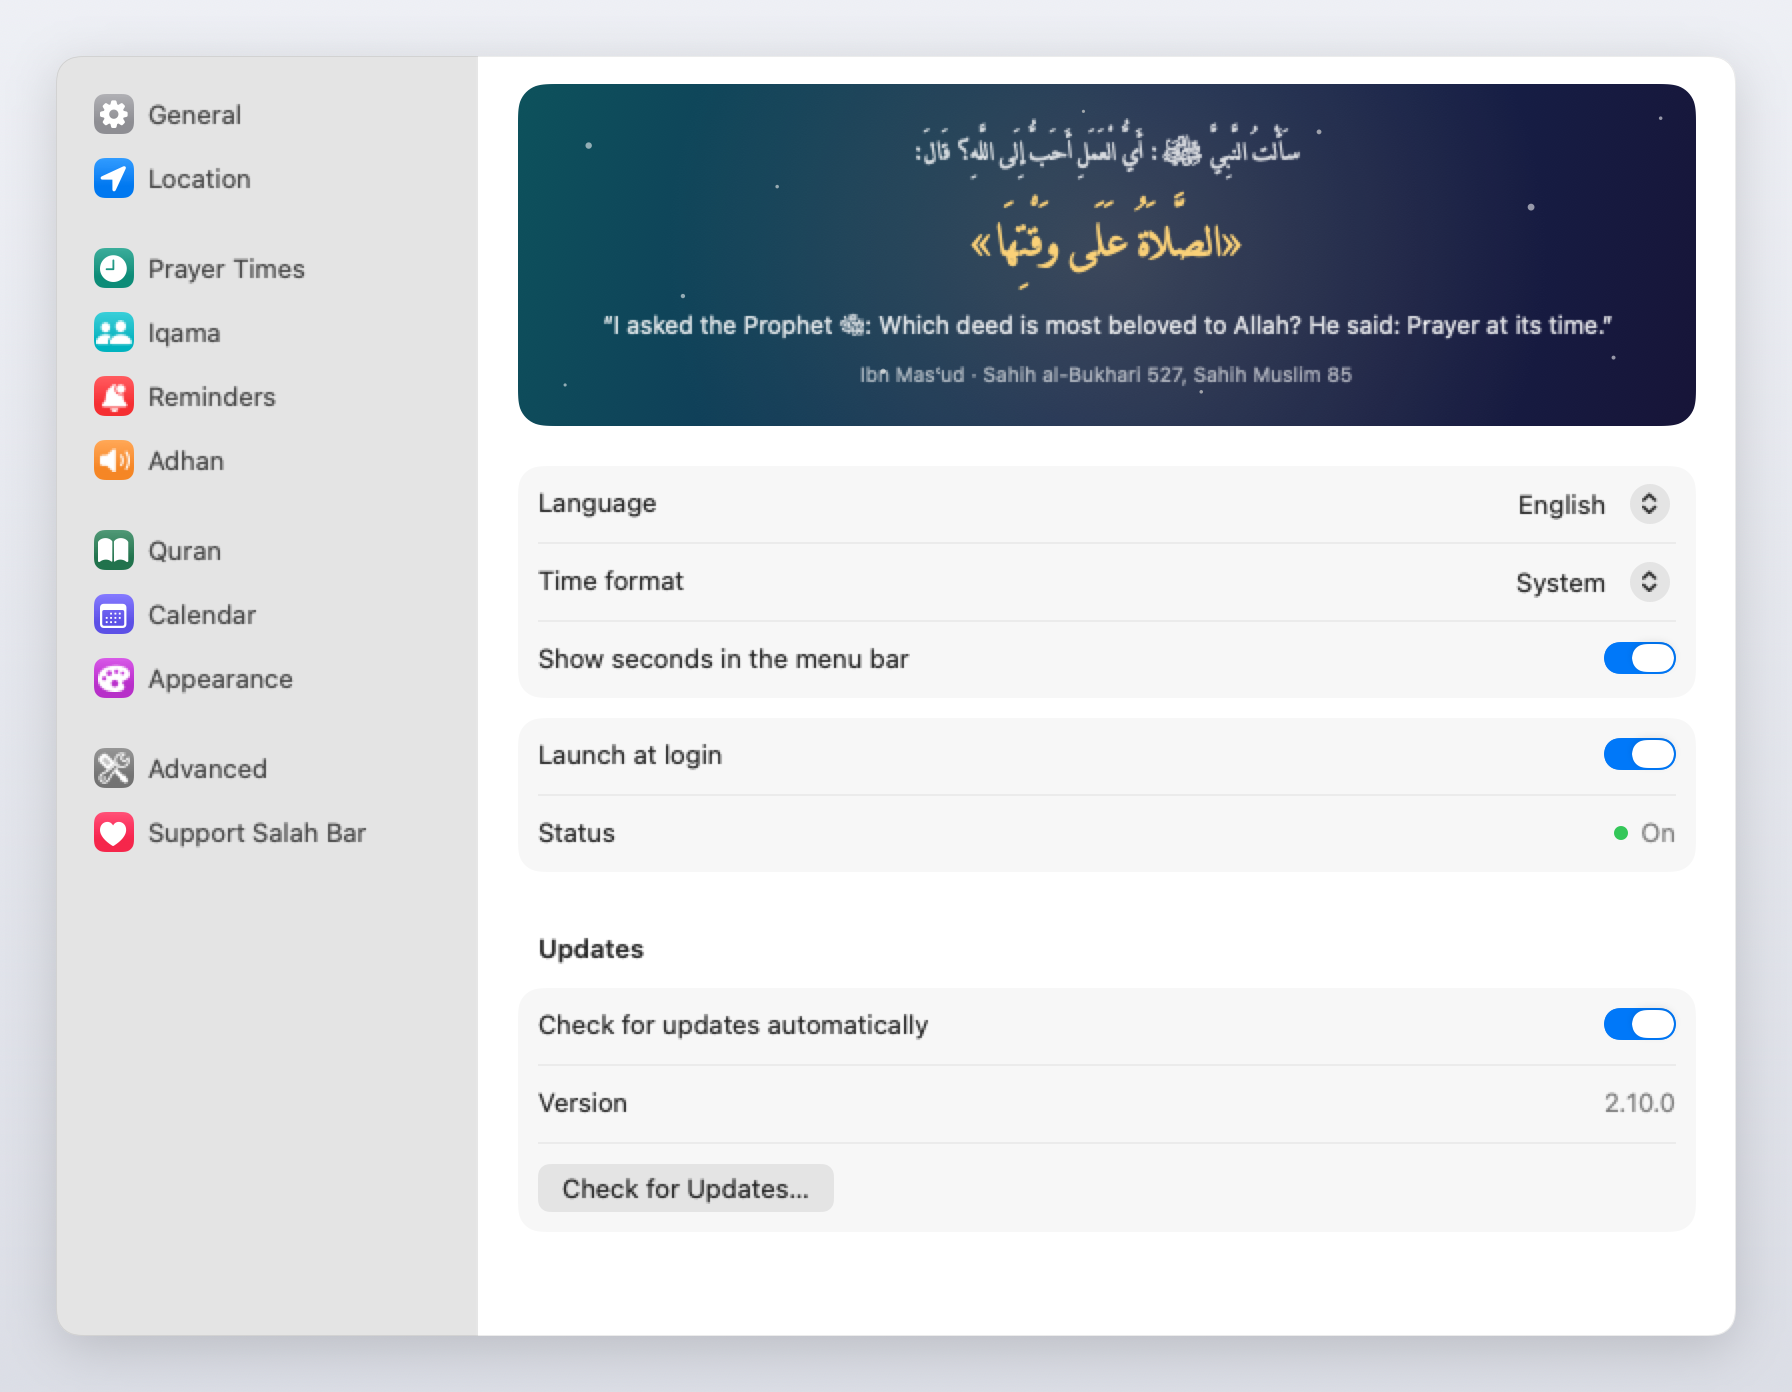
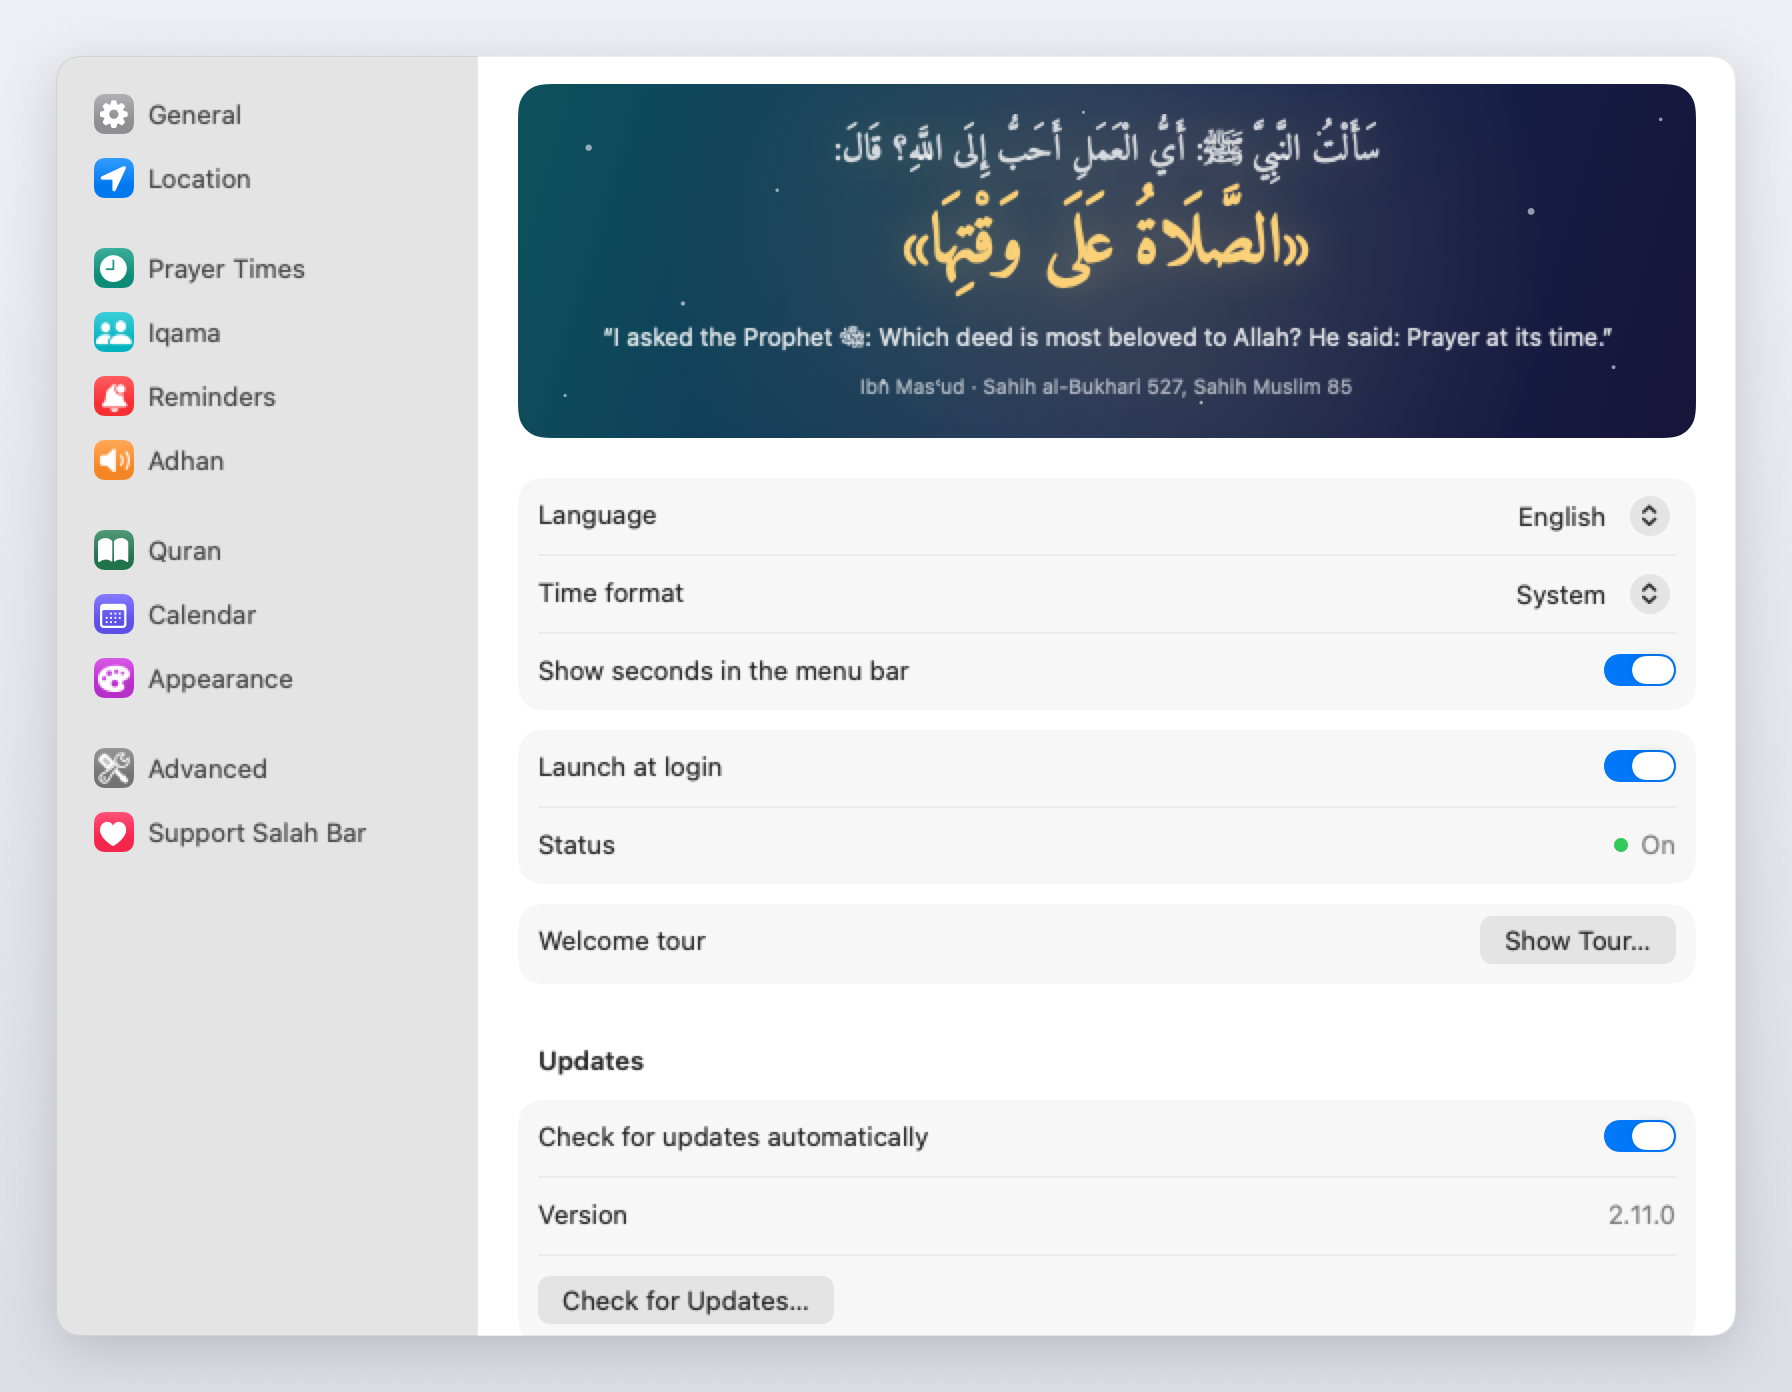
Release 2.11.0

diff --git a/README.md b/README.md
@@ -288,19 +288,31 @@ Click the countdown in the menu bar to open the panel. It shows:
   surah, and a progress bar you can click or drag to jump within the surah
 - **Quran…**, **Settings…** and **Quit Salah Bar**
 
-### Welcome
+### The welcome tour
 
-On first launch, Salah Bar greets you with the hadith it's built around, and
-asks for Location (to calculate your prayer times) and Notifications:
+On first launch, a short tour sets Salah Bar up with you, one step at a time:
+
+1. **Welcome**: the hadith Salah Bar is built around, and your language (English, Türkçe or العربية).
+2. **Location**: use your location, or choose a city instead.
+3. **Notifications and the adhan**: allow reminders, and listen to the adhan.
+4. **The menu bar**: where to find the countdown and what the panel shows.
+5. **What's inside**: the Quran, Hifz, iqama, the prayer log, widgets and more.
+6. **Done**: open Salah Bar when you log in, if you like.
+
+Each step can be skipped, and **Settings → General → Welcome tour** shows it again.
 
 > I asked the Prophet ﷺ: *"Which deed is most beloved to Allah?"* He said:
 > **"Prayer at its time."** (Ibn Masʿud; Sahih al-Bukhari 527, Sahih Muslim 85)
 
-| Welcome | Settings |
+| Welcome | The menu bar |
 |---|---|
-| ![The welcome window](assets/screenshots/welcome-en.png) | ![Settings, General](assets/screenshots/settings-general-en.png) |
+| ![The welcome tour](assets/screenshots/welcome-en.png) | ![The menu bar step](assets/screenshots/tour-menubar-en.png) |
+| **Location** | **What's inside** |
+| ![The location step](assets/screenshots/tour-location-en.png) | ![The features step](assets/screenshots/tour-features-en.png) |
 
 ### Settings
+
+![Settings, General](assets/screenshots/settings-general-en.png)
 
 Settings is laid out like System Settings: pages in a sidebar, each with its
 own icon, and the hadith at the top of **General**.

diff --git a/THIRD_PARTY_NOTICES.md b/THIRD_PARTY_NOTICES.md
@@ -32,6 +32,14 @@ the Hifz view ("Text: Tanzil.net"), and Tanzil's copyright notice is kept in
 the bundled file. Ayah timings for Hifz mode come from mp3quran.net's API,
 and ayah-by-ayah audio from EveryAyah.com (see below).
 
+## The Amiri font
+
+The hadith on the welcome tour and in Settings is set in
+[Amiri](https://github.com/aliftype/amiri) 1.000 by Khaled Hosny, bundled
+unmodified (`Amiri-Bold.ttf`, `Amiri-Regular.ttf`) under the
+[SIL Open Font License 1.1](https://openfontlicense.org); its licence text ships
+with the app as `Amiri-OFL.txt`.
+
 ## Translations
 English quotes use **Sahih International**; Turkish quotes use the
 **Diyanet İşleri Başkanlığı** translation. These belong to their publishers.
